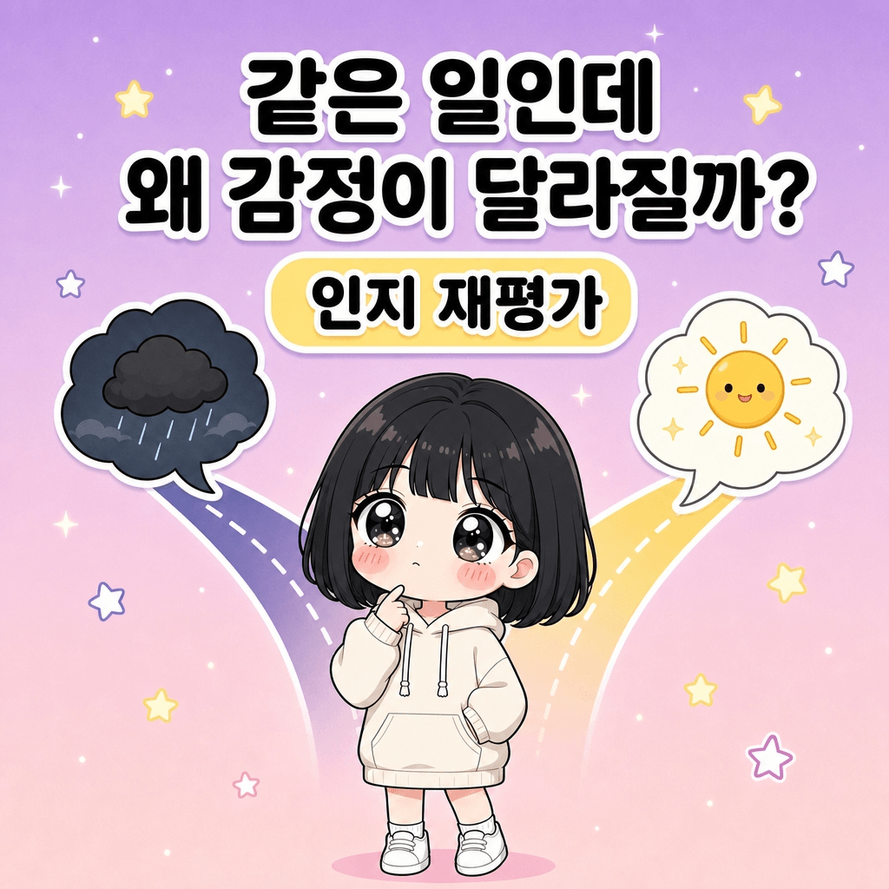
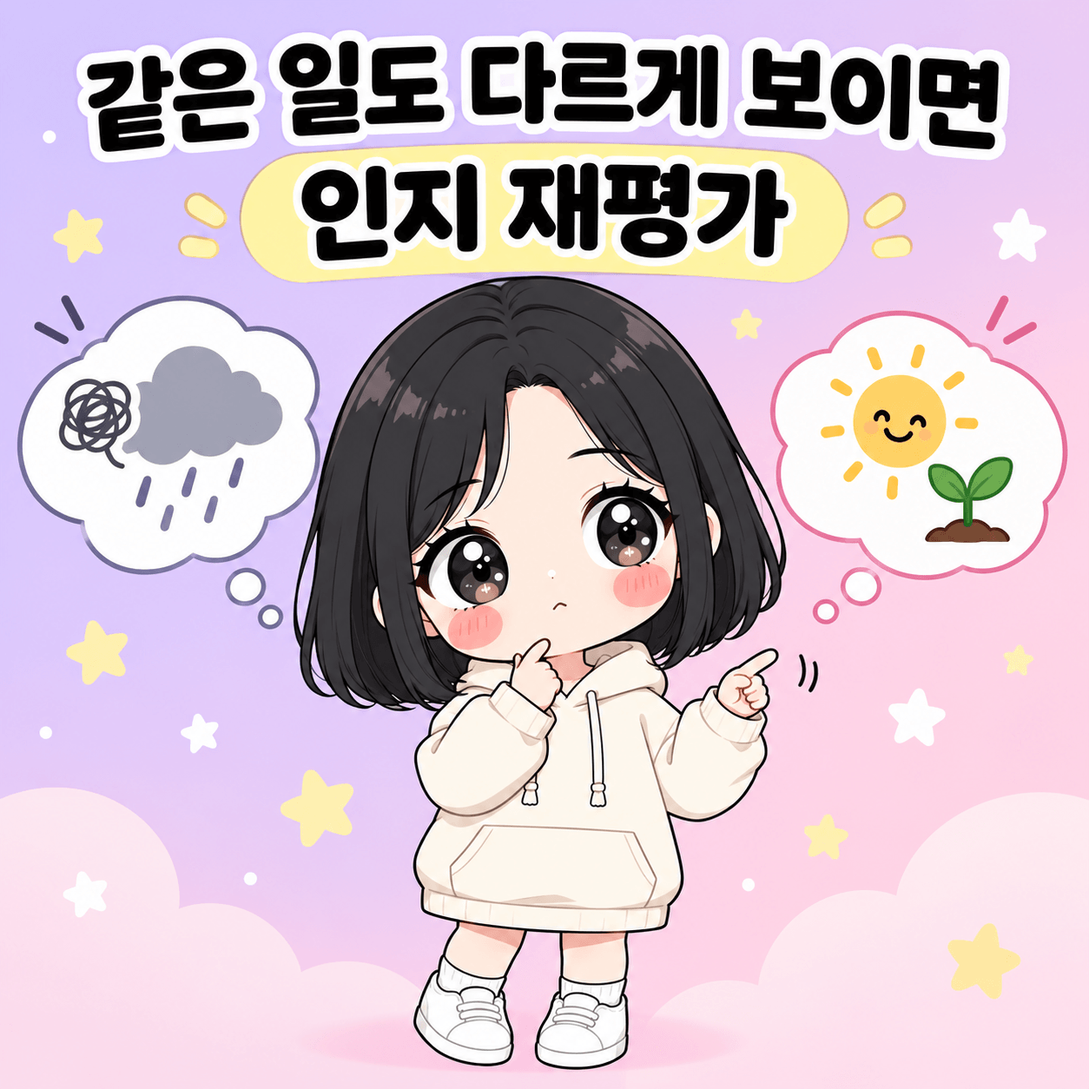
글 수정 발행

diff --git a/posts/cognitive-reappraisal-emotion.html b/posts/cognitive-reappraisal-emotion.html
@@ -5,16 +5,16 @@
   <link rel="icon" type="image/x-icon" href="/images/favicon.ico" />
   <meta name="viewport" content="width=device-width, initial-scale=1.0" />
   <title>인지 재평가, 같은 일도 다르게 해석하면 감정이 바뀌는 이유 | 예밍이네 심리사전</title>
-  <meta name="description" content="인지 재평가로 보면 같은 일도 다르게 해석할 때 왜 감정이 바뀌는지 풀려요. 감정을 만드는 게 사건이 아니라 해석인 이유를 풀고, 일상에서 연습하는 법까지 챙겨가세요." />
-      <link rel="canonical" href="https://yeminga.com/posts/cognitive-reappraisal-emotion" />
+  <meta name="description" content="인지 재평가가 상황의 해석을 바꿔 감정 반응에 영향을 주는 원리를 풀어요. Gross·Brooks·Troy 연구로 억제와의 차이, 효과의 경계, 일상 연습법까지 정리했어요." />
+  <link rel="canonical" href="https://yeminga.com/posts/cognitive-reappraisal-emotion" />
   <meta property="og:type" content="article" />
   <meta property="og:site_name" content="예밍이네 심리사전" />
   <meta property="og:title" content="인지 재평가, 같은 일도 다르게 해석하면 감정이 바뀌는 이유" />
-  <meta property="og:description" content="인지 재평가로 보면 같은 일도 다르게 해석할 때 왜 감정이 바뀌는지 풀려요. 감정을 만드는 게 사건이 아니라 해석인 이유를 풀고, 일상에서 연습하는 법까지 챙겨가세요." />
-      <meta property="og:url" content="https://yeminga.com/posts/cognitive-reappraisal-emotion" />
+  <meta property="og:description" content="인지 재평가가 상황의 해석을 바꿔 감정 반응에 영향을 주는 원리를 풀어요. Gross·Brooks·Troy 연구로 억제와의 차이, 효과의 경계, 일상 연습법까지 정리했어요." />
+  <meta property="og:url" content="https://yeminga.com/posts/cognitive-reappraisal-emotion" />
   <meta property="og:image" content="https://yeminga.com/images/thumb-cognitive-reappraisal-emotion.png" />
   <meta property="og:locale" content="ko_KR" />
-    <link rel="stylesheet" href="/css/style.css" />
+  <link rel="stylesheet" href="/css/style.css" />
   <!-- HEAD_ADSENSE_START -->
   <script async src="https://pagead2.googlesyndication.com/pagead/js/adsbygoogle.js?client=ca-pub-4067927801872250" crossorigin="anonymous"></script>
   <!-- HEAD_ADSENSE_END -->
@@ -25,24 +25,29 @@
       {
         "@type": "Article",
         "headline": "인지 재평가, 같은 일도 다르게 해석하면 감정이 바뀌는 이유",
-        "description": "인지 재평가로 보면 같은 일도 다르게 해석할 때 왜 감정이 바뀌는지 풀려요. 감정을 만드는 게 사건이 아니라 해석인 이유를 풀고, 일상에서 연습하는 법까지 챙겨가세요.",
+        "description": "인지 재평가가 상황의 해석을 바꿔 감정 반응에 영향을 주는 원리를 풀어요. Gross·Brooks·Troy 연구로 억제와의 차이, 효과의 경계, 일상 연습법까지 정리했어요.",
         "inLanguage": "ko-KR",
         "articleSection": "감정과 자아",
         "keywords": "인지 재평가",
         "author": { "@type": "Person", "name": "예밍이" },
         "publisher": { "@type": "Organization", "name": "예밍이네 심리사전" },
         "datePublished": "2026-07-28",
-        "dateModified": "2026-07-28"
+        "dateModified": "2026-09-08",
+        "citation": [
+          "Gross, 1998, Antecedent- and response-focused emotion regulation: Divergent consequences for experience, expression, and physiology, Journal of Personality and Social Psychology",
+          "Brooks, 2014, Get excited: Reappraising pre-performance anxiety as excitement, Journal of Experimental Psychology: General",
+          "Troy, Shallcross, & Mauss, 2013, A person-by-situation approach to emotion regulation: Cognitive reappraisal can either help or hurt, depending on the context, Psychological Science"
+        ]
       },
       {
         "@type": "FAQPage",
         "mainEntity": [
-          {
+                    {
             "@type": "Question",
             "name": "인지 재평가는 그냥 긍정적으로 생각하라는 건가요?",
             "acceptedAnswer": {
               "@type": "Answer",
-              "text": "아니에요. 무작정 좋게 보는 게 아니라, 상황을 더 정확하고 균형 있게 다시 보는 거예요. 다른 해석의 가능성을 열어두는 거라, 때로는 이건 진짜 별로였다는 현실적 판단으로 이어지기도 해요. 억지 긍정과는 결이 달라요."
+              "text": "아니에요. 무작정 좋은 쪽으로 해석하는 게 아니라, 한 가지 설명만 사실처럼 굳히지 않고 더 정확하고 균형 잡힌 가능성을 함께 보는 거예요. 불편한 사실을 인정한 채 해석만 조정할 수도 있어요."
             }
           },
           {
@@ -50,31 +55,31 @@
             "name": "감정을 참는 거랑 뭐가 다른가요?",
             "acceptedAnswer": {
               "@type": "Answer",
-              "text": "참기는 감정은 그대로 둔 채 겉만 누르는 거고, 재평가는 감정이 생기는 해석 자체를 바꾸는 거예요. 참기는 속의 긴장이 남아 오히려 더 지치지만, 재평가는 원인을 다뤄서 속까지 가라앉아요. 그래서 더 건강한 방법으로 알려져 있어요."
+              "text": "참기는 이미 생긴 감정의 표현을 누르는 쪽이고, 재평가는 상황에 붙인 의미를 다시 보는 쪽이에요. Gross의 1998년 실험에서도 두 전략은 주관 경험과 생리 반응에서 같은 결과를 보이지 않았어요."
             }
           },
           {
             "@type": "Question",
-            "name": "해석을 바꾸려 해도 잘 안 돼요. 정상인가요?",
+            "name": "해석을 바꾸려 해도 잘 안 되면 어떻게 하나요?",
             "acceptedAnswer": {
               "@type": "Answer",
-              "text": "네, 정상이에요. 처음엔 감정이 너무 강해서 해석을 바꿀 틈이 안 보이거든요. 그럴 땐 잠깐 시간을 두고 진정된 뒤에 시도하는 게 좋아요. 연습할수록 사건과 감정 사이의 틈을 알아채는 게 빨라져요. 한 번에 잘 안 되는 게 당연해요."
+              "text": "감정이 아주 강할 때는 다른 해석이 바로 떠오르지 않을 수 있어요. 그럴 땐 즉시 바꾸려 애쓰기보다 사건과 해석을 먼저 분리해 적고, 조금 진정된 뒤 다른 가능성을 하나만 찾아보는 방식이 부담이 덜해요."
             }
           },
           {
             "@type": "Question",
-            "name": "모든 감정을 재평가로 다스려야 하나요?",
+            "name": "재평가가 오히려 도움이 안 될 때도 있나요?",
             "acceptedAnswer": {
               "@type": "Answer",
-              "text": "그럴 필요 없어요. 슬플 땐 슬퍼하고 화날 땐 화내는 것도 자연스러운 감정이거든요. 재평가는 감정이 사실과 안 맞거나 나를 과하게 휘두를 때 꺼내 쓰는 도구일 뿐이에요. 모든 감정을 통제하려 들면 그것도 또 다른 피로가 돼요."
+              "text": "그럴 수 있어요. Troy와 동료들의 2013년 연구에서는 스트레스를 통제할 수 있는지에 따라 재평가 능력과 우울 수준의 관련 방향이 달라졌어요. 바꿀 수 있는 문제라면 행동으로 해결하는 쪽이 더 중요할 수 있어요."
             }
           },
           {
             "@type": "Question",
-            "name": "떨림을 설렘으로 바꿔 부르는 게 진짜 효과 있나요?",
+            "name": "떨림을 설렘으로 바꿔 부르는 게 정말 효과 있나요?",
             "acceptedAnswer": {
               "@type": "Answer",
-              "text": "꽤 도움이 돼요. 떨림이나 두근거림 같은 신체 반응은 불안과 설렘이 비슷하게 나타나거든요. 그래서 같은 반응에 다른 이름표를 붙이면 뇌가 그쪽으로 해석을 기울여요. 특히 발표나 면접처럼 긴장되는 자리에서 즉각적으로 체감되는 방법이에요."
+              "text": "수행 직전 상황에서는 도움이 될 가능성이 확인됐어요. Brooks의 2014년 노래 실험에서 흥분으로 재평가한 조건의 평균 점수는 80%, 불안 조건은 53%였어요. 다만 모든 종류의 불안에 같은 효과가 난다고 볼 수는 없어요."
             }
           }
         ]
@@ -109,133 +114,146 @@
           <h1>인지 재평가, 같은 일도 다르게 해석하면 감정이 바뀌는 이유</h1>
           <div class="article-meta">
             <span>작성자: 예밍이</span>
-            <time datetime="2026-07-28">2026.07.28</time>
+            <time datetime="2026-07-28">2026. 7. 28.</time>
+            <span class="article-modified">수정: 2026.09.08</span>
           </div>
         </header>
 
-        <div class="article-body">
+                <div class="article-body">
+          <!-- POST-KIND: CONCEPT -->
           <div class="summary-box">
             <strong>📌 3줄 요약</strong>
-            <p>똑같은 일을 겪어도 어떻게 해석하느냐에 따라 감정이 달라지는데, 그 해석을 의식적으로 바꿔보는 게 인지 재평가예요. 감정을 만드는 건 사건 자체가 아니라 그 사건에 대한 내 생각이거든요. 감정을 억누르는 것과 달리, 다시 해석하는 건 마음을 건강하게 다스리는 방법으로 알려져 있어요.</p>
+            <p>인지 재평가는 상황에 붙인 해석을 바꿔 감정 반응을 조절하는 방법이에요. 재평가와 표현 억제는 개입하는 지점과 결과가 다르게 나타날 수 있어요. 다만 상황에 따라 재평가가 늘 도움이 되는 건 아니에요.</p>
           </div>
 
-          <p class="hook">면접 직전에 심장이 쿵쾅댈 때, "나 떨고 있어"가 아니라 "나 설레나 봐"로 바꿔 불러본 적 있죠.</p>
+          <p class="hook">인지 재평가는 같은 사건을 다른 각도에서 보는 연습이에요.</p>
 
-          <p>신기한 건, 똑같이 두근거리는데 그렇게 부르면 진짜로 조금 덜 무섭게 느껴진다는 거예요. 저도 발표 전에 손이 떨릴 때 "긴장돼 죽겠다" 대신 "기대돼서 그런가 봐" 하고 속였더니, 같은 떨림인데 견딜 만해지더라고요. 이게 단순한 기분 탓이 아니라, 감정이 만들어지는 원리에 닿아 있어요. 그 원리를 활용하는 게 <strong>인지 재평가</strong>예요. 혹시 같은 일에 늘 같은 감정으로 반응하는 게 어쩔 수 없다고 여기고 있진 않나요?</p>
+          <p>면접 직전에 심장이 빨리 뛰면 “망할 것 같아”라고 받아들일 수도 있고, “몸이 준비하고 있나 봐”라고 볼 수도 있어요. 상황은 같아도 붙이는 의미가 달라지면 뒤따르는 감정의 세기와 방향도 달라질 수 있거든요.</p>
 
-          <h2>인지 재평가가 뭔데요</h2>
+          <p>중요한 건 억지로 좋게 생각하는 게 아니에요. 한 가지 해석만 사실처럼 굳히기보다, 지금 떠올린 해석이 유일한 설명인지 점검해보는 게 <strong>인지 재평가</strong>의 출발점이에요.</p>
 
-          <p>인지 재평가(cognitive reappraisal)는 어떤 상황에 대한 해석을 의식적으로 바꿔서 그에 따라오는 감정을 조절하는 방법이에요. 감정 조절 연구에서 핵심적으로 다뤄지는 개념인데요.</p>
+          <h2>인지 재평가는 해석에 손을 대는 방법이에요</h2>
 
-          <p>핵심 전제는 이거예요. 감정을 만드는 건 사건 자체가 아니라 그 사건을 바라보는 해석이라는 거죠. 친구가 답장을 안 했을 때, "나를 무시하네"라고 해석하면 서운하고 화나지만, "바쁜가 보다"라고 해석하면 별일 아니게 지나가잖아요. 똑같은 읽씹인데 감정이 정반대인 거예요.</p>
+          <p>인지 재평가(cognitive reappraisal)는 감정을 불러일으킨 상황의 의미나 해석을 다시 구성해 감정 반응에 영향을 주는 전략이에요. 친구가 답장을 늦게 했을 때 “나를 무시하나 봐”라고 보면 서운함이 커질 수 있지만, “지금은 답할 여유가 없나 보다”라는 가능성을 함께 두면 감정이 덜 치솟을 수 있어요.</p>
 
-          <p>그러니까 우리가 어쩔 수 없다고 느끼는 감정도, 사실은 그 사이에 끼어 있는 해석을 바꾸면 같이 바뀔 수 있어요. 사건과 감정 사이엔 늘 "내 생각"이라는 한 단계가 있고, 인지 재평가는 바로 그 단계에 손을 대는 거예요.</p>
+          <p>이건 “다 잘될 거야” 같은 억지 긍정과는 달라요. 불편한 사실을 없던 일로 만드는 게 아니라, 내가 붙인 의미가 사실보다 앞서가고 있지는 않은지 살펴보는 쪽에 가깝거든요.</p>
 
-          <p>여기서 중요한 건 이게 억지 긍정이나 정신승리랑은 다르다는 점이에요. "다 잘될 거야" 하고 무작정 좋게 보는 게 아니라, 그 상황을 더 정확하고 균형 있게 다시 보는 거예요. 다른 해석의 가능성을 열어두는 거죠.</p>
+          <p>또 <a href="/posts/gamjeong-labeling-anger">감정에 이름 붙이는 감정 라벨링</a>과도 구분할 필요가 있어요. 라벨링이 지금 느끼는 감정을 알아차리고 이름 붙이는 데 초점을 둔다면, 재평가는 상황을 바라보는 의미를 다시 살펴보는 데 초점을 둬요.</p>
 
-          <img src="/images/yeminga-thinking.png" alt="같은 일을 다르게 해석해보는 예밍이">
+          <img src="/images/yeminga-thinking.png" alt="같은 상황의 다른 해석을 떠올리는 예밍이">
 
           <!-- AD:INARTICLE-BLOG-01 -->
 
-          <h2>왜 해석을 바꾸면 감정이 바뀔까요</h2>
+          <h2>왜 해석을 바꾸면 감정도 달라질까요</h2>
 
-          <p>그럼 왜 생각을 바꾸는 것만으로 감정이 달라질까요. 여기엔 감정이 만들어지는 순서가 숨어 있어요.</p>
+          <p>감정 반응은 사건의 성격만으로 정해지지 않고, 그 상황을 어떻게 받아들이는지에도 영향을 받아요. 그래서 “답장이 늦었다”라는 사실과 “나를 무시한다”라는 해석을 분리해보면, 감정이 올라오는 과정에 개입할 여지가 생겨요.</p>
 
-          <p>우리는 흔히 사건이 곧바로 감정을 일으킨다고 느껴요. "친구가 답장 안 함 → 짜증" 이렇게요. 근데 그 사이엔 눈 깜짝할 새 지나가는 해석 단계가 있어요. "답장 안 함 → 나를 무시하는 거야 → 짜증" 이렇게요. 너무 빨라서 못 느낄 뿐, 감정은 사건이 아니라 그 중간 해석에서 나와요.</p>
+          <p>James J. Gross는 1998년 참가자 120명을 대상으로 재평가, 표현 억제, 통제의 3조건을 비교했어요. 재평가와 억제 모두 감정 표현 행동을 줄였지만, 재평가 조건에서는 주관적으로 느낀 혐오 경험도 감소했어요. 반면 억제 조건은 몸이 긴장할 때 나타나는 교감신경 활성 증가와 연결됐고요. 이 비교는 <a href="https://pubmed.ncbi.nlm.nih.gov/9457784/?utm_source=chatgpt.com" target="_blank" rel="noopener">JPSP</a>에 실렸어요.</p>
 
-          <p>그래서 그 중간 단계를 다른 해석으로 갈아끼우면 결과인 감정도 바뀌어요. 떨림이라는 같은 몸 반응도 "위험 신호"로 읽으면 불안이 되고, "기대 신호"로 읽으면 설렘이 돼요. 몸에서 일어나는 일은 똑같은데 뇌가 거기에 붙이는 이름표에 따라 감정이 갈리는 거죠.</p>
+          <p>수행 직전의 불안을 다른 말로 다시 보는 예도 있어요. Alison Wood Brooks의 2014년 노래 실험은 113명을 대상으로 했는데, 불안을 “흥분된다”로 재평가한 조건의 평균 점수는 80%, 불안하다고 표현한 조건은 53%였어요. <a href="https://pubmed.ncbi.nlm.nih.gov/24364682/?utm_source=chatgpt.com" target="_blank" rel="noopener">JEP: General</a>에 실린 결과예요. 다만 이 수치는 심장 박동이나 긴장이 올라간 수행 직전의 높은 각성 상황에서 나온 결과라 모든 불안에 그대로 적용할 수는 없어요.</p>
 
-          <p>제가 이걸 알고 좀 든든해진 게요. 그동안 감정은 그냥 나한테 일어나는 거, 내가 어쩔 수 없는 거라고 생각했거든요. 근데 사이에 해석이라는 손잡이가 있다는 걸 알고 나니, 감정에 일방적으로 끌려가지 않고 한 번쯤 개입할 여지가 생기더라고요. 체감상 이 "여지가 있다"는 감각 자체가 큰 위로였어요.</p>
+          <img src="/images/cognitive-reappraisal-emotion-fig01.png" alt="흥분과 불안 조건의 노래 점수 비교 도해">
+
+          <h2>재평가와 표현 억제는 같은 감정 조절이 아니에요</h2>
+
+          <p>감정을 다스린다고 하면 흔히 표정을 숨기거나 말을 삼키는 모습을 떠올리잖아요. 표현 억제는 이미 올라온 감정의 겉표현을 누르는 쪽이고, 인지 재평가는 감정 반응이 커지기 전에 상황의 의미를 다시 보는 쪽이에요.</p>
 
           <table>
-            <tr>
-              <th>같은 사건</th>
-              <th>해석 A</th>
-              <th>해석 B</th>
-            </tr>
-            <tr>
-              <td>친구가 답장 안 함</td>
-              <td>"나를 무시하네" → 서운함</td>
-              <td>"바쁜가 보다" → 덤덤함</td>
-            </tr>
-            <tr>
-              <td>면접 전 심장 두근거림</td>
-              <td>"긴장돼 망할 것 같아" → 불안</td>
-              <td>"기대돼서 그래" → 설렘</td>
-            </tr>
-            <tr>
-              <td>발표에서 실수함</td>
-              <td>"난 역시 안 돼" → 좌절</td>
-              <td>"다음엔 이 부분 챙기자" → 의욕</td>
-            </tr>
+            <thead>
+              <tr>
+                <th>항목</th>
+                <th>인지 재평가</th>
+                <th>표현 억제</th>
+              </tr>
+            </thead>
+            <tbody>
+              <tr>
+                <td>무엇을 바꾸나</td>
+                <td>상황의 해석과 의미</td>
+                <td>이미 나온 감정 표현</td>
+              </tr>
+              <tr>
+                <td>개입 시점</td>
+                <td>감정 반응이 본격화되기 전 단계</td>
+                <td>감정 반응이 생긴 뒤</td>
+              </tr>
+              <tr>
+                <td>Gross 1998 결과</td>
+                <td>주관적 혐오 경험 감소</td>
+                <td>표현 감소와 교감신경 활성 증가</td>
+              </tr>
+            </tbody>
           </table>
 
-          <!-- AD:INARTICLE-BLOG-02 -->
+          <p>그래서 재평가를 “참는 법”으로 이해하면 방향이 어긋나요. 목표는 화나 슬픔을 없애는 게 아니라, 감정을 키우는 해석이 너무 단정적이거나 과한지 살펴보는 데 있어요. 때로는 “이건 실제로 불쾌한 일이 맞다”는 판단이 그대로 남을 수도 있고요.</p>
 
-          <h2>억누르는 것과 다시 해석하는 건 완전히 달라요</h2>
+          <h2>인지 재평가가 늘 좋은 선택은 아니에요</h2>
 
-          <p>여기서 예밍이가 꼭 짚고 싶은 게 있어요. 감정을 다스린다고 하면 흔히 "참는 것"을 떠올리는데, 인지 재평가는 그것과 정반대예요.</p>
+          <p>재평가가 효과를 보인 연구가 있어도 언제나 같은 결과가 나오는 건 아니에요. Allison S. Troy, Amanda J. Shallcross, Iris B. Mauss는 2013년 참가자 170명을 살펴봤는데, 통제하기 어려운 스트레스에서는 재평가 능력이 높은 사람일수록 우울 수준이 낮은 쪽과 연결됐지만, 통제할 수 있는 스트레스에서는 반대 방향의 관련성이 나타났어요.</p>
 
-          <p>감정을 억누르는 건 화가 나는데 표정만 태연하게 꾸미는 거예요. 속은 그대로 끓고 있는데 겉만 누르는 거죠. 이건 당장은 조용해 보여도, 속의 긴장은 그대로라 오히려 몸이 더 힘들어져요. 감정 억제가 스트레스를 키우고 관계에도 별로 안 좋다는 연구가 많거든요.</p>
+          <p>즉 바꿀 수 없는 상황을 견디는 데는 재해석이 도움이 될 수 있지만, 실제로 행동해서 바꿀 수 있는 문제라면 해석만 바꾸는 게 꼭 최선은 아닐 수 있다는 뜻이에요. 이 결과를 다룬 <a href="https://www.psychologicalscience.org/journals/psychological-science/0956797613496434/?utm_source=chatgpt.com" target="_blank" rel="noopener">Psychol Sci</a> 논문은 이후 점수 정정이 있었지만 핵심 결론의 방향은 유지됐어요.</p>
 
-          <p>반면 인지 재평가는 끓어오르는 그 지점, 즉 해석 자체를 바꿔서 감정이 덜 끓게 만드는 거예요. 겉을 누르는 게 아니라 불 자체를 줄이는 거죠. 그래서 같은 "감정 조절"이라도 재평가는 마음을 덜 지치게 하고 더 건강하다고 알려져 있어요.</p>
-
-          <div class="tip-box">
-            <strong>💡 예밍이 한마디</strong>
-            <p>화를 꾹 참는 거랑 화를 다시 해석하는 건 전혀 달라요. 참기는 겉만 누르고 속은 그대로지만, 재평가는 화가 나는 이유 자체를 다시 보는 거라 속까지 가라앉아요.</p>
-          </div>
-
-          <img src="/images/yeminga-empathy.png" alt="감정을 억누르지 않고 다독이는 예밍이">
-
-          <p>다만 오해하면 안 되는 게, 재평가가 감정을 무조건 없애야 한다는 건 아니에요. 슬플 땐 슬퍼하고, 화날 땐 화내는 게 자연스러워요. 재평가는 그 감정이 사실과 안 맞거나 나를 과하게 휘두를 때, 한 번 다른 각도로 점검해보는 도구일 뿐이에요. 모든 감정을 다스리려 들면 그것도 피곤하거든요.</p>
+          <p>답장이 늦을 때마다 비슷한 불안이 반복된다면 이번 메시지 한 번의 해석만으로 설명되지 않을 수도 있어요. 연락 지연에 마음이 크게 흔들리는 이유가 어디서 오는지 궁금해지는 지점이에요.</p>
+          <p><a class="inline-cta" href="/posts/attachment-style-late-reply-anxiety">연락 불안의 뿌리가 궁금하다면</a></p>
 
           <h2>일상에서 인지 재평가를 연습하는 법</h2>
 
-          <p>그럼 이걸 어떻게 연습하면 좋을까요. 실제로 굴려보고 도움 됐던 방법들 풀어볼게요.</p>
+          <p>재평가가 언제나 답은 아니라도, 해석이 감정 반응에 영향을 줄 수 있다는 점은 연구에서 관찰돼요. 그래서 모든 감정을 고쳐 쓰려 하기보다, 감정이 나를 과하게 끌고 갈 때 선택적으로 써보는 편이 좋아요.</p>
 
-          <p>첫째, 감정이 확 올라올 때 "내가 지금 이걸 어떻게 해석하고 있지?"를 물어보세요. 사건과 감정 사이에 끼어 있는 그 해석을 일단 꺼내 보는 거예요. "읽씹당해서 화남"이 아니라 "읽씹을 무시로 해석해서 화남"이라고 보면, 바꿀 손잡이가 보이기 시작해요.</p>
+          <p>감정이 확 올라오면 먼저 “무슨 일이 있었지?”와 “나는 그 일을 어떻게 해석했지?”를 나눠 적어보세요. “답장이 늦었다”는 사건과 “나를 무시한다”는 해석이 분리되면, 그 사이에 다른 가능성을 넣기가 쉬워져요.</p>
 
-          <p>둘째, "다르게 볼 수 있는 방법이 있을까?"를 떠올려보세요. 꼭 긍정적일 필요는 없고, 그냥 다른 가능성을 하나만 더 찾으면 돼요. 저는 누가 무뚝뚝하게 굴 때 "나 싫어하나" 대신 "오늘 힘든 일 있었나"를 떠올려요. 한 가지 해석에 갇히지 않는 것만으로 감정이 좀 느슨해지더라고요.</p>
+          <p>그다음에는 가장 긍정적인 설명보다 가장 균형 잡힌 설명을 하나 더 찾아보세요. “분명 나를 싫어해”를 “지금은 이유를 모른다”로 바꾸는 정도도 충분해요. 재평가는 현실을 좋게 꾸미는 기술이 아니라 확신을 조금 낮추는 연습이기도 하거든요.</p>
 
-          <p>셋째, 신체 반응엔 다른 이름표를 붙여보세요. 떨림, 두근거림, 손에 땀 같은 건 불안이든 설렘이든 비슷하게 나타나거든요. 그래서 "긴장된다"를 "기대된다"로 바꿔 부르는 것만으로도 체감이 달라져요. 체감상 발표나 면접처럼 떨리는 자리에서 이게 제일 즉각적으로 효과 있었어요.</p>
+          <p>발표나 면접처럼 몸의 각성이 높은 자리에서는 “불안하다”만 반복하기보다 “흥분되고 준비된 상태일 수도 있다”는 식으로 다시 불러볼 수 있어요. Brooks의 결과처럼 이런 방식은 수행 직전 상황에서 도움이 될 가능성이 있지만, 효과를 보장하는 주문처럼 쓰지는 않는 게 좋아요.</p>
 
           <div class="warning-box">
             <strong>⚠ 이건 주의해요</strong>
-            <p>인지 재평가는 억지로 괜찮은 척하는 게 아니에요. 진짜 힘든 일을 "별거 아니야"로 덮으면 그건 또 다른 형태의 억누르기가 돼요. 또 깊은 우울이나 불안이 오래 이어진다면 혼자 해석을 바꾸는 것만으로 버티지 말고, 전문가의 도움을 받아보시길 권해요.</p>
+            <p>진짜로 바꿔야 할 문제를 “좋게 생각하자”로 덮으면 재평가가 회피가 될 수 있어요. 깊은 우울이나 불안이 오래 이어져 일상에 영향을 준다면 해석 바꾸기만으로 버티기보다 전문가의 도움을 함께 고려해보세요.</p>
           </div>
 
-          <img src="/images/yeminga-proud.png" alt="해석을 바꿔 감정을 잘 다스린 예밍이">
+          <img src="/images/yeminga-proud.png" alt="감정의 해석을 차분히 점검한 예밍이">
+
+          <!-- AD:INARTICLE-BLOG-02 -->
 
           <h2>자주 묻는 질문</h2>
 
           <div class="faq-item">
             <h3>인지 재평가는 그냥 긍정적으로 생각하라는 건가요?</h3>
-            <p>아니에요. 무작정 좋게 보는 게 아니라, 상황을 더 정확하고 균형 있게 다시 보는 거예요. 다른 해석의 가능성을 열어두는 거라, 때로는 "이건 진짜 별로였다"는 현실적 판단으로 이어지기도 해요. 억지 긍정과는 결이 달라요.</p>
+            <p>아니에요. 무작정 좋은 쪽으로 해석하는 게 아니라, 한 가지 설명만 사실처럼 굳히지 않고 더 정확하고 균형 잡힌 가능성을 함께 보는 거예요. 불편한 사실을 인정한 채 해석만 조정할 수도 있어요.</p>
           </div>
 
           <div class="faq-item">
             <h3>감정을 참는 거랑 뭐가 다른가요?</h3>
-            <p>참기는 감정은 그대로 둔 채 겉만 누르는 거고, 재평가는 감정이 생기는 해석 자체를 바꾸는 거예요. 참기는 속의 긴장이 남아 오히려 더 지치지만, 재평가는 원인을 다뤄서 속까지 가라앉아요. 그래서 더 건강한 방법으로 알려져 있어요.</p>
+            <p>참기는 이미 생긴 감정의 표현을 누르는 쪽이고, 재평가는 상황에 붙인 의미를 다시 보는 쪽이에요. Gross의 1998년 실험에서도 두 전략은 주관 경험과 생리 반응에서 같은 결과를 보이지 않았어요.</p>
           </div>
 
           <div class="faq-item">
-            <h3>해석을 바꾸려 해도 잘 안 돼요. 정상인가요?</h3>
-            <p>네, 정상이에요. 처음엔 감정이 너무 강해서 해석을 바꿀 틈이 안 보이거든요. 그럴 땐 잠깐 시간을 두고 진정된 뒤에 시도하는 게 좋아요. 연습할수록 사건과 감정 사이의 틈을 알아채는 게 빨라져요. 한 번에 잘 안 되는 게 당연해요.</p>
+            <h3>해석을 바꾸려 해도 잘 안 되면 어떻게 하나요?</h3>
+            <p>감정이 아주 강할 때는 다른 해석이 바로 떠오르지 않을 수 있어요. 그럴 땐 즉시 바꾸려 애쓰기보다 사건과 해석을 먼저 분리해 적고, 조금 진정된 뒤 다른 가능성을 하나만 찾아보는 방식이 부담이 덜해요.</p>
           </div>
 
           <div class="faq-item">
-            <h3>모든 감정을 재평가로 다스려야 하나요?</h3>
-            <p>그럴 필요 없어요. 슬플 땐 슬퍼하고 화날 땐 화내는 것도 자연스러운 감정이거든요. 재평가는 감정이 사실과 안 맞거나 나를 과하게 휘두를 때 꺼내 쓰는 도구일 뿐이에요. 모든 감정을 통제하려 들면 그것도 또 다른 피로가 돼요.</p>
+            <h3>재평가가 오히려 도움이 안 될 때도 있나요?</h3>
+            <p>그럴 수 있어요. Troy와 동료들의 2013년 연구에서는 스트레스를 통제할 수 있는지에 따라 재평가 능력과 우울 수준의 관련 방향이 달라졌어요. 바꿀 수 있는 문제라면 행동으로 해결하는 쪽이 더 중요할 수 있어요.</p>
           </div>
 
           <div class="faq-item">
-            <h3>떨림을 설렘으로 바꿔 부르는 게 진짜 효과 있나요?</h3>
-            <p>꽤 도움이 돼요. 떨림이나 두근거림 같은 신체 반응은 불안과 설렘이 비슷하게 나타나거든요. 그래서 같은 반응에 다른 이름표를 붙이면 뇌가 그쪽으로 해석을 기울여요. 특히 발표나 면접처럼 긴장되는 자리에서 즉각적으로 체감되는 방법이에요.</p>
+            <h3>떨림을 설렘으로 바꿔 부르는 게 정말 효과 있나요?</h3>
+            <p>수행 직전 상황에서는 도움이 될 가능성이 확인됐어요. Brooks의 2014년 노래 실험에서 흥분으로 재평가한 조건의 평균 점수는 80%, 불안 조건은 53%였어요. 다만 모든 종류의 불안에 같은 효과가 난다고 볼 수는 없어요.</p>
+          </div>
+
+          <div class="ref-box">
+            <strong>📚 참고 자료</strong>
+            <ul>
+              <li><a href="https://pubmed.ncbi.nlm.nih.gov/9457784/?utm_source=chatgpt.com" target="_blank" rel="noopener">JPSP</a> — Gross 외, 1998, 재평가와 억제 반응 차이</li>
+              <li><a href="https://pubmed.ncbi.nlm.nih.gov/24364682/?utm_source=chatgpt.com" target="_blank" rel="noopener">JEP: General</a> — Brooks 외, 2014, 수행 불안 재평가 효과</li>
+              <li><a href="https://www.psychologicalscience.org/journals/psychological-science/0956797613496434/?utm_source=chatgpt.com" target="_blank" rel="noopener">Psychol Sci</a> — Troy 외, 2013, 상황에 따른 재평가 차이</li>
+            </ul>
           </div>
 
           <div class="notice-box">
             <strong>📝 참고 안내</strong>
-            <p>이 글은 심리학 개념을 쉽게 소개하기 위한 것으로, 전문적인 심리 진단이나 치료를 대신하지 않아요. 마음에 어려움이 있다면 전문가와 상담해보시길 권해요.</p>
+            <p>이 글에서 다룬 실험들은 특정 표본과 상황에서 나온 결과이고, Troy 연구처럼 스트레스의 통제 가능성에 따라 재평가의 관련성이 달라질 수 있어요. 재평가를 모든 감정에 통하는 규칙으로 보기보다 상황에 따라 골라 쓰는 감정 조절 전략으로 이해하는 편이 좋아요.</p>
           </div>
 
           <!-- AD:DISPLAY-BLOG-BOTTOM -->

diff --git a/index.html b/index.html
@@ -74,7 +74,7 @@
               <img class="thumb thumb--wide" src="/images/thumb-cognitive-reappraisal-emotion.png" alt="인지 재평가, 같은 일도 다르게 해석하면 감정이 바뀌는 이유 썸네일" loading="lazy" />
               <span class="badge badge--emotion">감정과 자아</span>
               <h2 class="hero-lead-title">인지 재평가, 같은 일도 다르게 해석하면 감정이 바뀌는 이유</h2>
-              <p class="hero-lead-excerpt">똑같은 일도 어떻게 해석하느냐에 따라 감정이 달라져요. 감정을 만드는 건 사건이 아니라 해석이라는 원리와, 억누르기와 다른 인지 재평가를 일상에서 연습하는 법을 풀었어요.</p>
+              <p class="hero-lead-excerpt">인지 재평가가 해석을 바꿔 감정 반응에 영향을 주는 과정을 Gross와 Brooks 연구로 풀었어요. 표현 억제와의 차이, 늘 도움이 되는 건 아닌 이유, 일상에서 써보는 법까지 정리했어요.</p>
             </a>
             <ul class="hero-sub-links">
             <li><a href="/posts/priming-effect-wine-music">· 클래식 음악 틀었더니 비싼 와인이 더 팔린 이유</a></li>

diff --git a/category/emotion/index.html b/category/emotion/index.html
@@ -87,7 +87,7 @@
             <div class="card-body">
               <span class="badge badge--emotion">감정과 자아</span>
               <h2 class="card-title">인지 재평가, 같은 일도 다르게 해석하면 감정이 바뀌는 이유</h2>
-              <p class="card-excerpt">똑같은 일도 어떻게 해석하느냐에 따라 감정이 달라져요. 감정을 만드는 건 사건이 아니라 해석이라는 원리와, 억누르기와 다른 인지 재평가를 일상에서 연습하는 법을 풀었어요.</p>
+              <p class="card-excerpt">인지 재평가가 해석을 바꿔 감정 반응에 영향을 주는 과정을 Gross와 Brooks 연구로 풀었어요. 표현 억제와의 차이, 늘 도움이 되는 건 아닌 이유, 일상에서 써보는 법까지 정리했어요.</p>
               <div class="card-meta">
                 <span>예밍이</span>
                 <time datetime="2026-07-28">2026.07.28</time>
